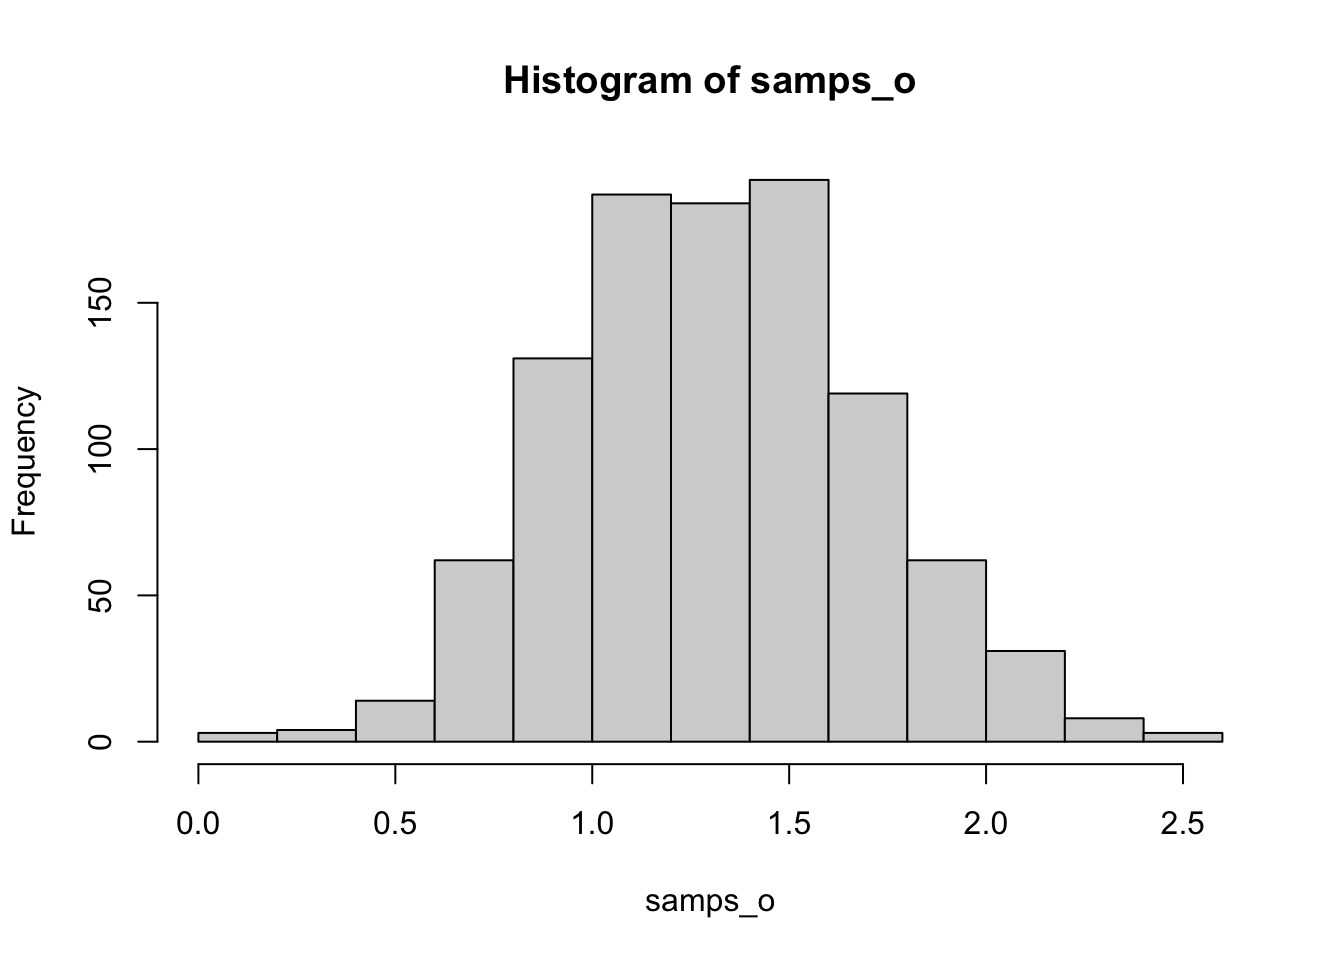
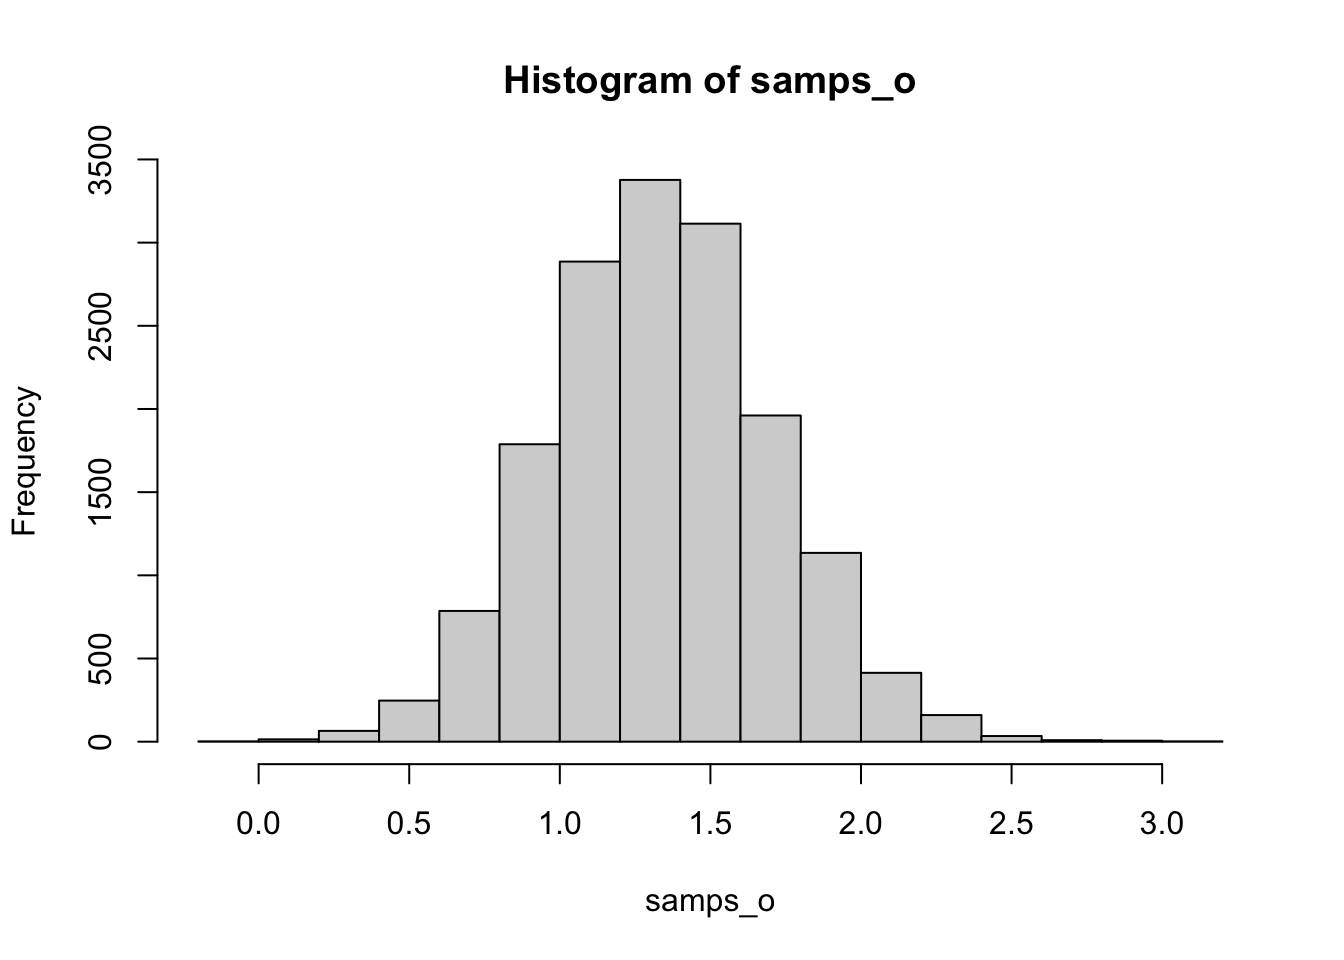
Minor fixes to birddisp

diff --git a/ex/soln4_birddisp.html b/ex/soln4_birddisp.html
@@ -210,8 +210,7 @@ exceeds breeding dispersal</strong>.</p>
 <li>Make some plots exploring the hypothesis.</li>
 </ol>
 <div class="soln">
-<pre class="r"><code># do a bit of manipulation to make ggplot play nicely
-library(ggplot2)
+<pre class="r"><code>library(ggplot2)
 ggplot(disp) + theme_minimal() + 
     geom_histogram(aes(x = disp_dist, fill = type), position=&quot;identity&quot;, alpha = 0.5, bins = 30)</code></pre>
 <p><img src="soln4_birddisp_files/figure-html/unnamed-chunk-2-1.png" width="672" /></p>
@@ -225,8 +224,8 @@ hypothesis. Go ahead and do it. What’s the result? Do the data fit the
 assumptions of the test?</li>
 </ol>
 <div class="soln">
-<p>Let’s try a paired t-test. For sure the assumptions are not met, but
-we will try it anyway.</p>
+<p>Let’s try a two-sample t-test. For sure the assumptions are not met,
+but we will try it anyway.</p>
 <pre class="r"><code>t.test(natal, breeding, hypothesis = &quot;greater&quot;)</code></pre>
 <pre><code>## 
 ##  Welch Two Sample t-test
@@ -303,15 +302,14 @@ href="https://en.wikipedia.org/wiki/Gamma_distribution">Wikipedia</a>:</p>
 class="math inline">\(\alpha\)</span> and <span
 class="math inline">\(\beta\)</span> in terms of the parameters we want
 to estimate:</p>
-$$
-<span class="math display">\[\begin{aligned}
+<p><span class="math display">\[
+\begin{aligned}
 \alpha_b &amp; = \frac{\mu_b^2}{\phi} \\
 \beta_b &amp; = \frac{\mu_b}{\phi} \\
 \alpha_n &amp; = \frac{(\mu_b+o)^2}{\phi} \\
 \beta_n &amp; = \frac{\mu_b+o}{\phi} \\
-
-\end{aligned}\]</span>
-<p>$$</p>
+\end{aligned}
+\]</span></p>
 <p>Finally we define the likelihood distribution:</p>
 <p><span class="math display">\[
 \begin{aligned}
@@ -319,16 +317,8 @@ breeding &amp; \sim \mathrm{Gamma}(\alpha_b, \beta_b) \\
 natal &amp; \sim \mathrm{Gamma}(\alpha_n, \beta_n) \\
 \end{aligned}
 \]</span></p>
-<pre class="r"><code>library(&quot;igraph&quot;)</code></pre>
-<pre><code>## 
-## Attaching package: &#39;igraph&#39;</code></pre>
-<pre><code>## The following objects are masked from &#39;package:stats&#39;:
-## 
-##     decompose, spectrum</code></pre>
-<pre><code>## The following object is masked from &#39;package:base&#39;:
-## 
-##     union</code></pre>
-<pre class="r"><code>library(&quot;ggnetwork&quot;)
+<pre class="r"><code>library(&quot;igraph&quot;)
+library(&quot;ggnetwork&quot;)
 gr = graph_from_literal(μ_b-+α_b, μ_b-+β_b, Φ-+α_b, Φ-+β_b, o-+α_n, o-+β_n, α_b-+breeding, 
                         β_b-+breeding, α_n-+natal, β_n-+natal, μ_b-+α_n, μ_b-+β_n,
                         Φ-+α_n, Φ-+β_n)
@@ -390,7 +380,8 @@ disp_model = stan_model(&quot;stan/bird_disp.stan&quot;)</code></pre>
     breeding = breeding
 )
 
-fit = sampling(disp_model, chains = 1, refresh = 0, data = bird_disp_stan)</code></pre>
+# I take a lot of samples, because I want to estimate probabilities to a few decimal places
+fit = sampling(disp_model, chains = 4, refresh = 0, data = bird_disp_stan, iter = 8000)</code></pre>
 </div>
 <div class="line-block">   e. What is the probability that your
 hypothesis is true? What are plausible limits for the difference between
@@ -400,7 +391,7 @@ the means?</div>
 
 ## pr(mu &gt; 0)
 sum(samps_o &gt; 0) / length(samps_o)</code></pre>
-<pre><code>## [1] 1</code></pre>
+<pre><code>## [1] 0.999875</code></pre>
 <pre class="r"><code>## credible interval
 hist(samps_o)</code></pre>
 <p><img src="soln4_birddisp_files/figure-html/unnamed-chunk-8-1.png" width="672" /></p>
@@ -409,9 +400,10 @@ interval = quantile(samps_o, c(0.25, 0.975))
 
 cat(&quot;There is a 95% chance that the difference in means is between&quot;, 
     round(interval[1], 2), &quot;and&quot;, round(interval[2], 2))</code></pre>
-<pre><code>## There is a 95% chance that the difference in means is between 1.04 and 2.1</code></pre>
+<pre><code>## There is a 95% chance that the difference in means is between 1.08 and 2.08</code></pre>
 <p>Our hypothesis that o &gt; 0 is quite probable. Interestingly, our
-Bayesian estimate is much more conservative than the t.test.</p>
+estimate of the difference in means is much smaller than what we get
+using <code>t.test</code>.</p>
 </div>
 
 
